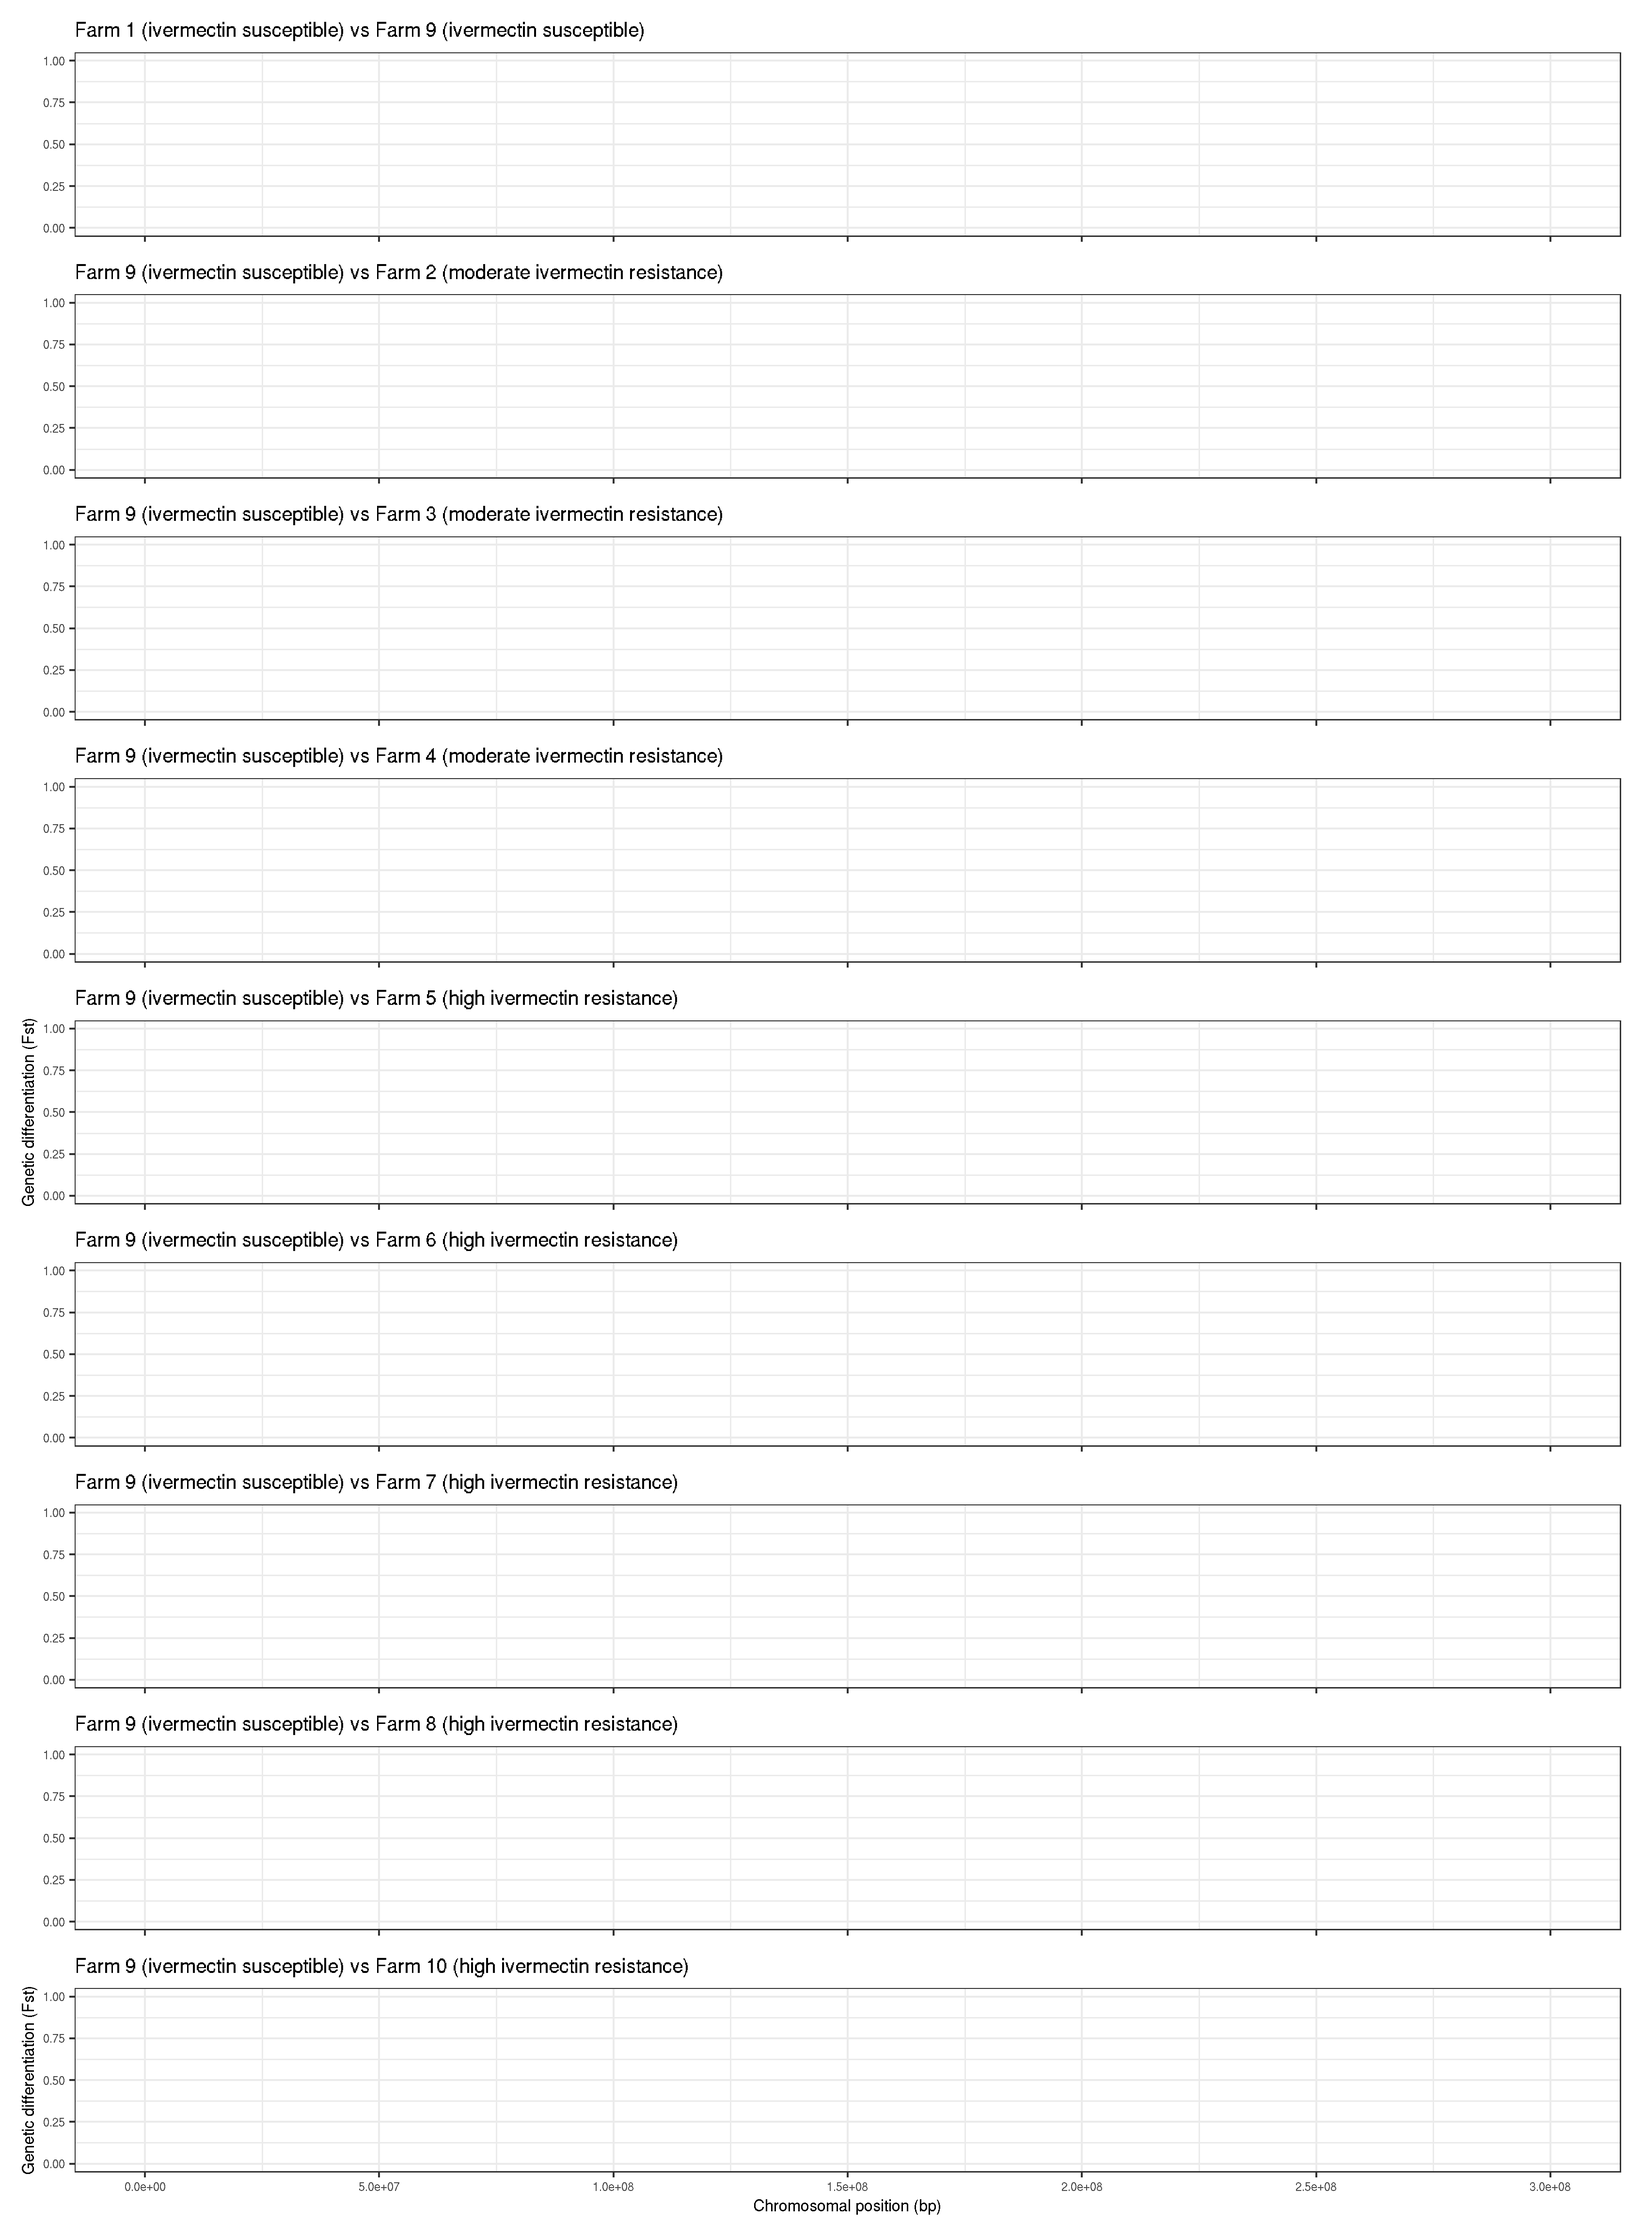
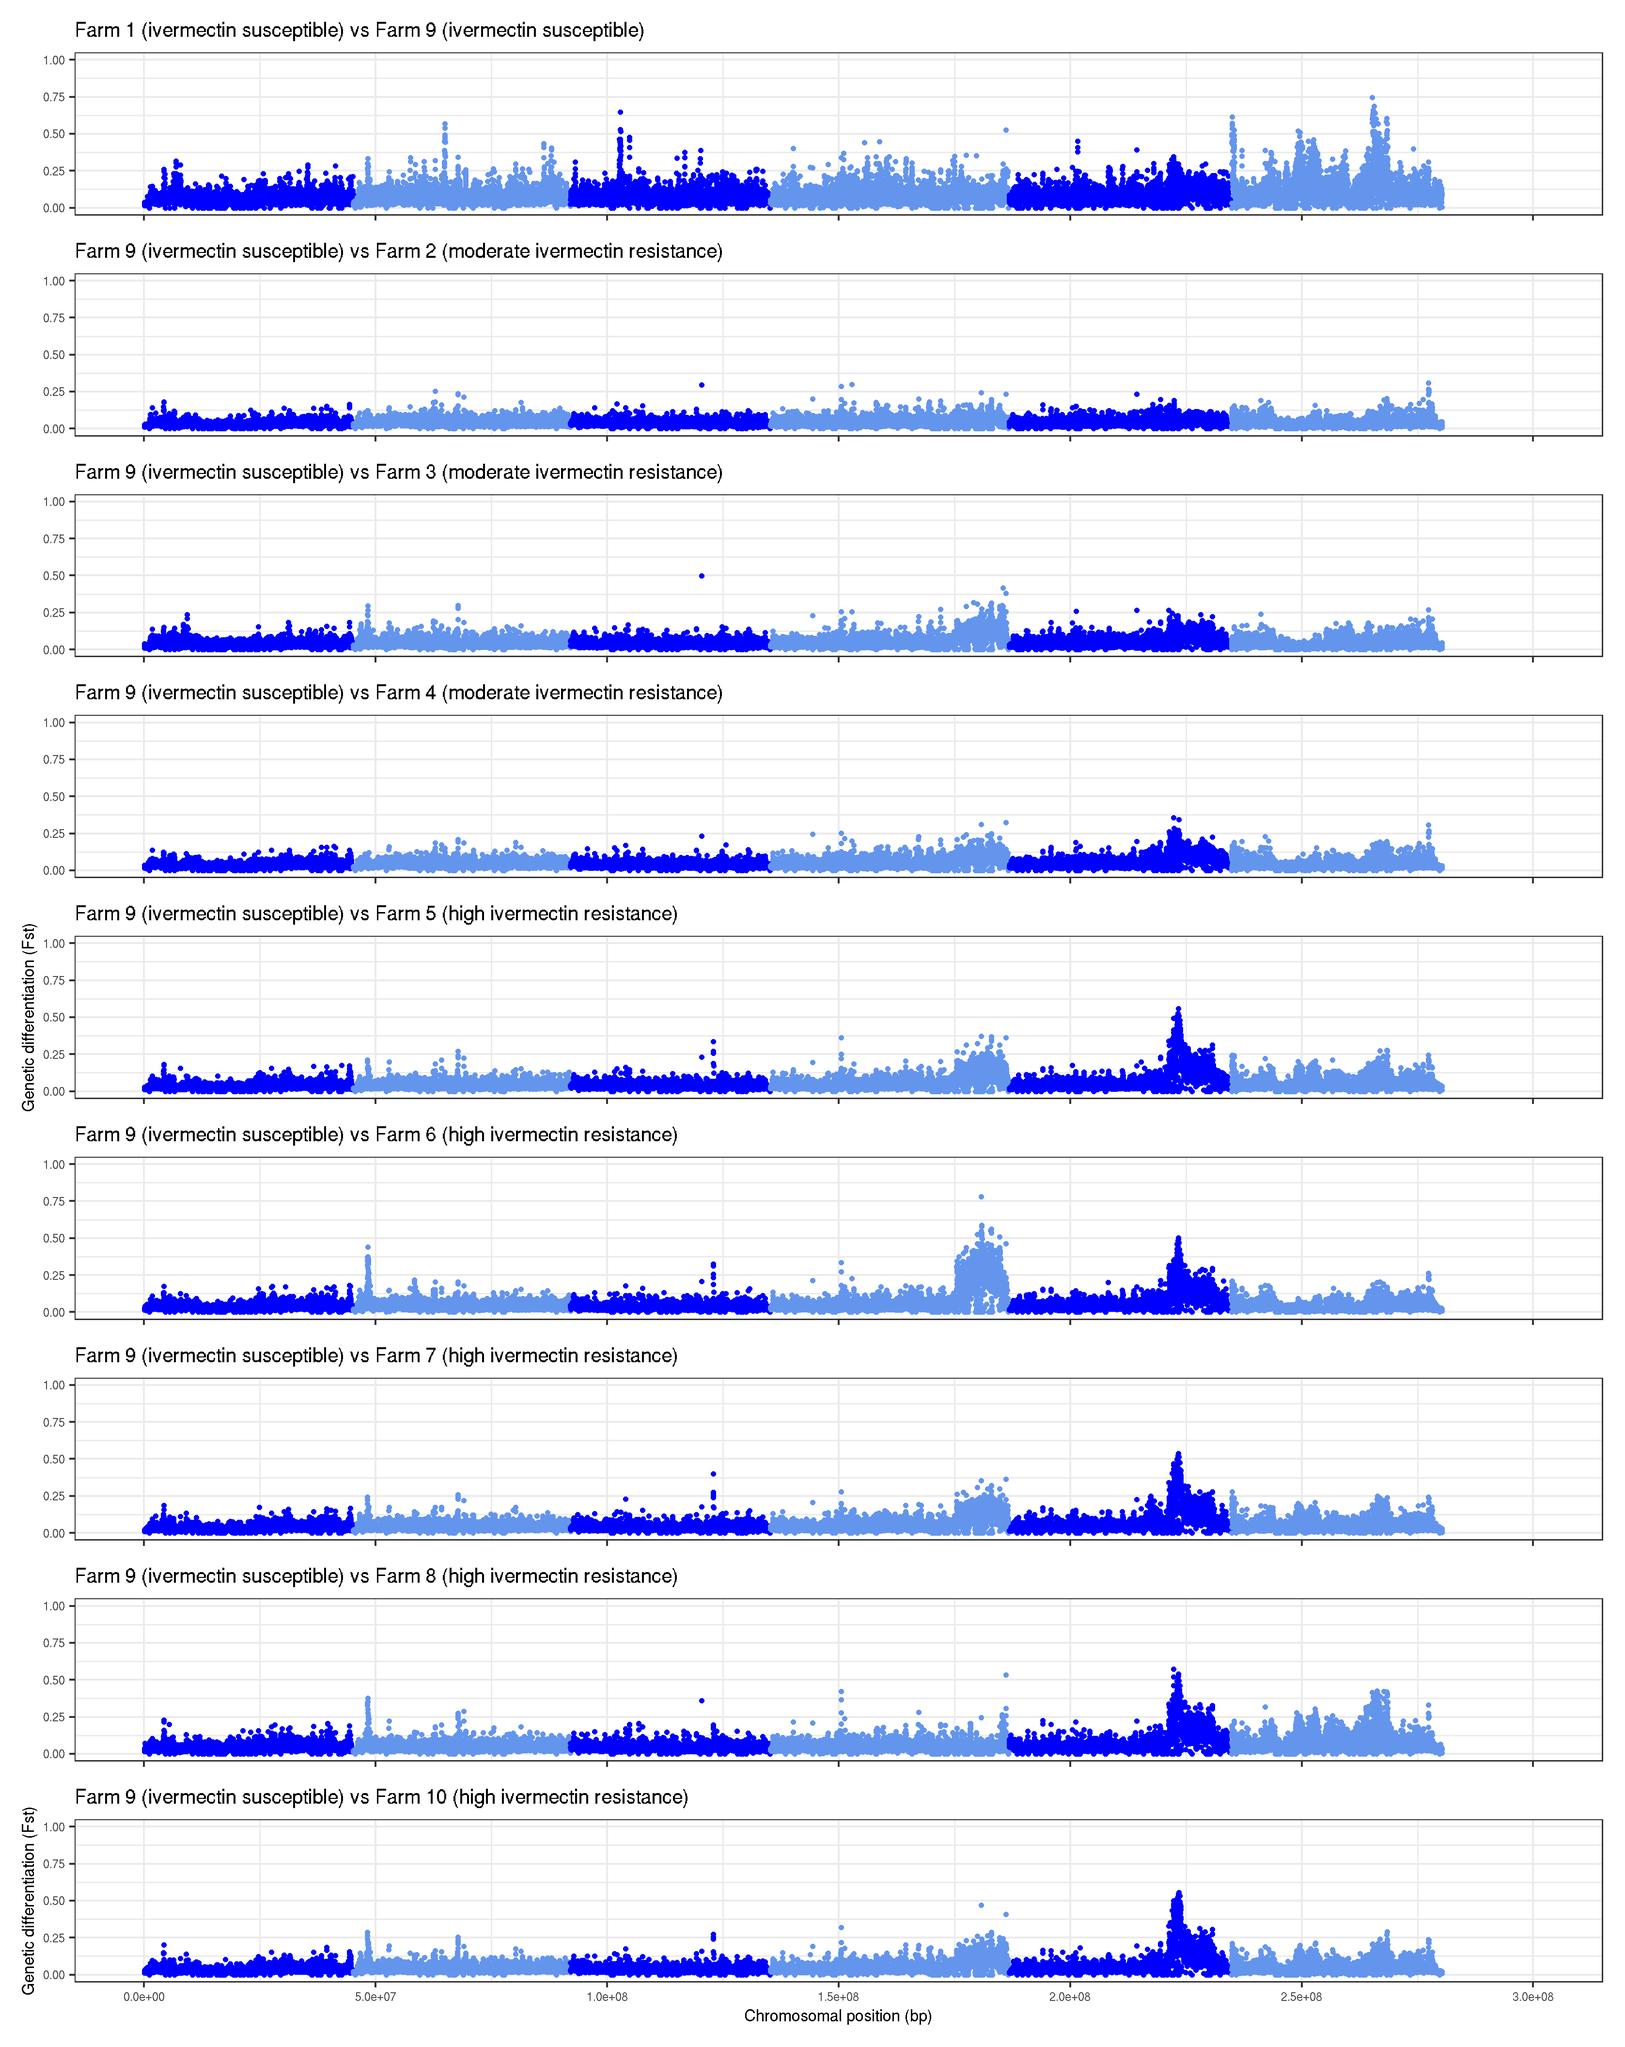
update genome-wide notes and figures

diff --git a/03_code/hcontortus_xqtl.workbook.genomewideplots.md b/03_code/hcontortus_xqtl.workbook.genomewideplots.md
@@ -251,7 +251,7 @@ fst <- fst[fst$V1!="hcontortus_chr_mtDNA_arrow_pilon",]
 # susceptibles
 plot_1 <-
      ggplot(fst,aes(1:nrow(fst)*10000,V21,colour = V1)) +
-     geom_point(size=0.5,alpha=0.5)+
+     geom_point(size=0.5)+
      ylim(0,1)+
      labs(title = "Farm 1 (ivermectin susceptible) vs Farm 9 (ivermectin susceptible)",  y = "Genetic differentiation (Fst)")+
      scale_color_manual(values = chr_colours) +
@@ -261,7 +261,7 @@ plot_1 <-
 # UGA_S vs moderates
 plot_2 <-
      ggplot(fst,aes(1:nrow(fst)*10000,V7,colour = V1))+
-     geom_point(size=0.5,alpha=0.5)+
+     geom_point(size=0.5)+
      ylim(0,1)+
      labs(title = "Farm 1 (ivermectin susceptible) vs Farm 2 (moderate ivermectin resistance)", y = "Genetic differentiation (Fst)")+
      scale_color_manual(values = chr_colours) +
@@ -270,7 +270,7 @@ plot_2 <-
 
 plot_3 <-
      ggplot(fst,aes(1:nrow(fst)*10000,V9,colour = V1))+
-     geom_point(size=0.5,alpha=0.5)+
+     geom_point(size=0.5)+
      ylim(0,1)+
      labs(title = "Farm 1 (ivermectin susceptible) vs Farm 3 (moderate ivermectin resistance)",   y = "Genetic differentiation (Fst)")+
      scale_color_manual(values = chr_colours) +
@@ -279,7 +279,7 @@ plot_3 <-
 
 plot_4 <-
      ggplot(fst,aes(1:nrow(fst)*10000,V11,colour = V1))+
-     geom_point(size=0.5,alpha=0.5)+
+     geom_point(size=0.5)+
      ylim(0,1)+
      labs(title = "Farm 1 (ivermectin susceptible) vs Farm 4 (moderate ivermectin resistance)",  y = "Genetic differentiation (Fst)")+
      scale_color_manual(values = chr_colours) +
@@ -290,7 +290,7 @@ plot_4 <-
 # UGA_S vs high resistance
 plot_5 <-
      ggplot(fst,aes(1:nrow(fst)*10000,V13,colour = V1))+
-     geom_point(size=0.5,alpha=0.5)+
+     geom_point(size=0.5)+
      ylim(0,1)+
      labs(title = "Farm 1 (ivermectin susceptible) vs Farm 5 (high ivermectin resistance)",  y = "Genetic differentiation (Fst)")+
      scale_color_manual(values = chr_colours) +
@@ -299,7 +299,7 @@ plot_5 <-
 
 plot_6 <-
      ggplot(fst,aes(1:nrow(fst)*10000,V15,colour = V1))+
-     geom_point(size=0.5,alpha=0.5)+
+     geom_point(size=0.5)+
      ylim(0,1)+
      labs(title = "Farm 1 (ivermectin susceptible) vs Farm 6 (high ivermectin resistance)",  y = "Genetic differentiation (Fst)")+
      scale_color_manual(values = chr_colours) +
@@ -308,7 +308,7 @@ plot_6 <-
 
 plot_7 <-
      ggplot(fst,aes(1:nrow(fst)*10000,V17,colour = V1))+
-     geom_point(size=0.5,alpha=0.5)+
+     geom_point(size=0.5)+
      ylim(0,1)+
      labs(title = "Farm 1 (ivermectin susceptible) vs Farm 7 (high ivermectin resistance)",  y = "Genetic differentiation (Fst)")+
      scale_color_manual(values = chr_colours) +
@@ -317,7 +317,7 @@ plot_7 <-
 
 plot_8 <-
      ggplot(fst,aes(1:nrow(fst)*10000,V19,colour = V1))+
-     geom_point(size=0.5,alpha=0.5)+
+     geom_point(size=0.5)+
      ylim(0,1)+
      labs(title = "Farm 1 (ivermectin susceptible) vs Farm 8 (high ivermectin resistance)",   y = "Genetic differentiation (Fst)")+
      scale_color_manual(values = chr_colours) +
@@ -326,7 +326,7 @@ plot_8 <-
 
 plot_9 <-
      ggplot(fst,aes(1:nrow(fst)*10000,V23,colour = V1))+
-     geom_point(size=0.5,alpha=0.5)+
+     geom_point(size=0.5)+
      ylim(0,1)+
      labs(title = "Farm 1 (ivermectin susceptible) vs Farm 10 (high ivermectin resistance)", x = "Chromosomal position (bp)",  y = "Genetic differentiation (Fst)")+
      scale_color_manual(values = chr_colours) +
@@ -345,7 +345,7 @@ ggsave("XQTL_SupplementaryFigure_USfarm1.png")
 ```bash
 plot_1 <-
      ggplot(fst,aes(1:nrow(fst)*10000,V21,colour = V1))+
-     geom_point(size=0.5,alpha=0.5)+
+     geom_point(size=0.5)+
      ylim(0,1)+
      labs(title = "Farm 1 (ivermectin susceptible) vs Farm 9 (ivermectin susceptible)",  y = "")+
      scale_color_manual(values = chr_colours) +
@@ -355,7 +355,7 @@ plot_1 <-
 # UGA_S vs moderates
 plot_2 <-
      ggplot(fst,aes(1:nrow(fst)*10000,V37,colour = V1))+
-     geom_point(size=0.5,alpha=0.5)+
+     geom_point(size=0.5)+
      ylim(0,1)+
      labs(title = "Farm 9 (ivermectin susceptible) vs Farm 2 (moderate ivermectin resistance)", y = "")+
      scale_color_manual(values = chr_colours) +
@@ -364,7 +364,7 @@ plot_2 <-
 
 plot_3 <-
      ggplot(fst,aes(1:nrow(fst)*10000,V51,colour = V1))+
-     geom_point(size=0.5,alpha=0.5)+
+     geom_point(size=0.5)+
      ylim(0,1)+
      labs(title = "Farm 9 (ivermectin susceptible) vs Farm 3 (moderate ivermectin resistance)",   y = "")+
      scale_color_manual(values = chr_colours) +
@@ -373,7 +373,7 @@ plot_3 <-
 
 plot_4 <-
      ggplot(fst,aes(1:nrow(fst)*10000,V63,colour = V1))+
-     geom_point(size=0.5,alpha=0.5)+
+     geom_point(size=0.5)+
      ylim(0,1)+
      labs(title = "Farm 9 (ivermectin susceptible) vs Farm 4 (moderate ivermectin resistance)",  y = "")+
      scale_color_manual(values = chr_colours) +
@@ -384,7 +384,7 @@ plot_4 <-
 # UGA_S vs high resistance
 plot_5 <-
      ggplot(fst,aes(1:nrow(fst)*10000,V73,colour = V1))+
-     geom_point(size=0.5,alpha=0.5)+
+     geom_point(size=0.5)+
      ylim(0,1)+
      labs(title = "Farm 9 (ivermectin susceptible) vs Farm 5 (high ivermectin resistance)",  y = "Genetic differentiation (Fst)")+
      scale_color_manual(values = chr_colours) +
@@ -393,7 +393,7 @@ plot_5 <-
 
 plot_6 <-
      ggplot(fst,aes(1:nrow(fst)*10000,V81,colour = V1))+
-     geom_point(size=0.5,alpha=0.5)+
+     geom_point(size=0.5)+
      ylim(0,1)+
      labs(title = "Farm 9 (ivermectin susceptible) vs Farm 6 (high ivermectin resistance)",  y = "")+
      scale_color_manual(values = chr_colours) +
@@ -402,7 +402,7 @@ plot_6 <-
 
 plot_7 <-
      ggplot(fst,aes(1:nrow(fst)*10000,V87,colour = V1))+
-     geom_point(size=0.5,alpha=0.5)+
+     geom_point(size=0.5)+
      ylim(0,1)+
      labs(title = "Farm 9 (ivermectin susceptible) vs Farm 7 (high ivermectin resistance)",  y = "")+
      scale_color_manual(values = chr_colours) +
@@ -411,7 +411,7 @@ plot_7 <-
 
 plot_8 <-
      ggplot(fst,aes(1:nrow(fst)*10000,V91,colour = V1))+
-     geom_point(size=0.5,alpha=0.5)+
+     geom_point(size=0.5)+
      ylim(0,1)+
      labs(title = "Farm 9 (ivermectin susceptible) vs Farm 8 (high ivermectin resistance)",   y = "")+
      scale_color_manual(values = chr_colours) +
@@ -420,7 +420,7 @@ plot_8 <-
 
 plot_9 <-
      ggplot(fst,aes(1:nrow(fst)*10000,V95,colour = V1))+
-     geom_point(size=0.5,alpha=0.5)+
+     geom_point(size=0.5)+
      ylim(0,1)+
      labs(title = "Farm 9 (ivermectin susceptible) vs Farm 10 (high ivermectin resistance)", x = "Chromosomal position (bp)",  y = "Genetic differentiation (Fst)")+
      scale_color_manual(values = chr_colours) +
